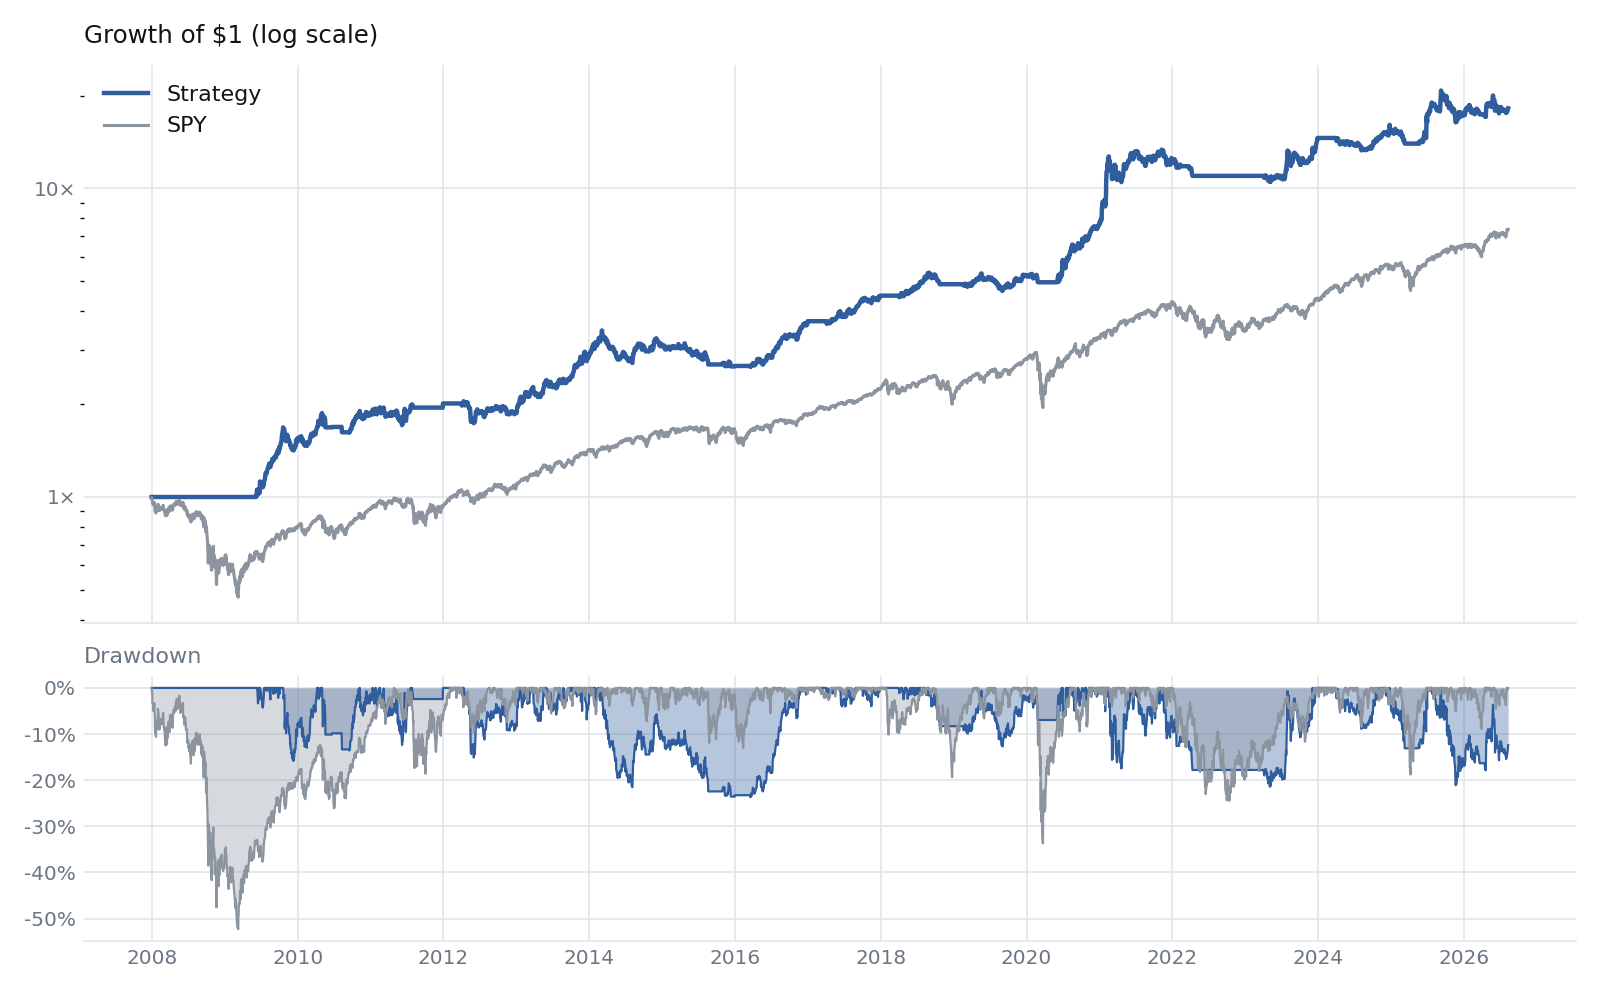
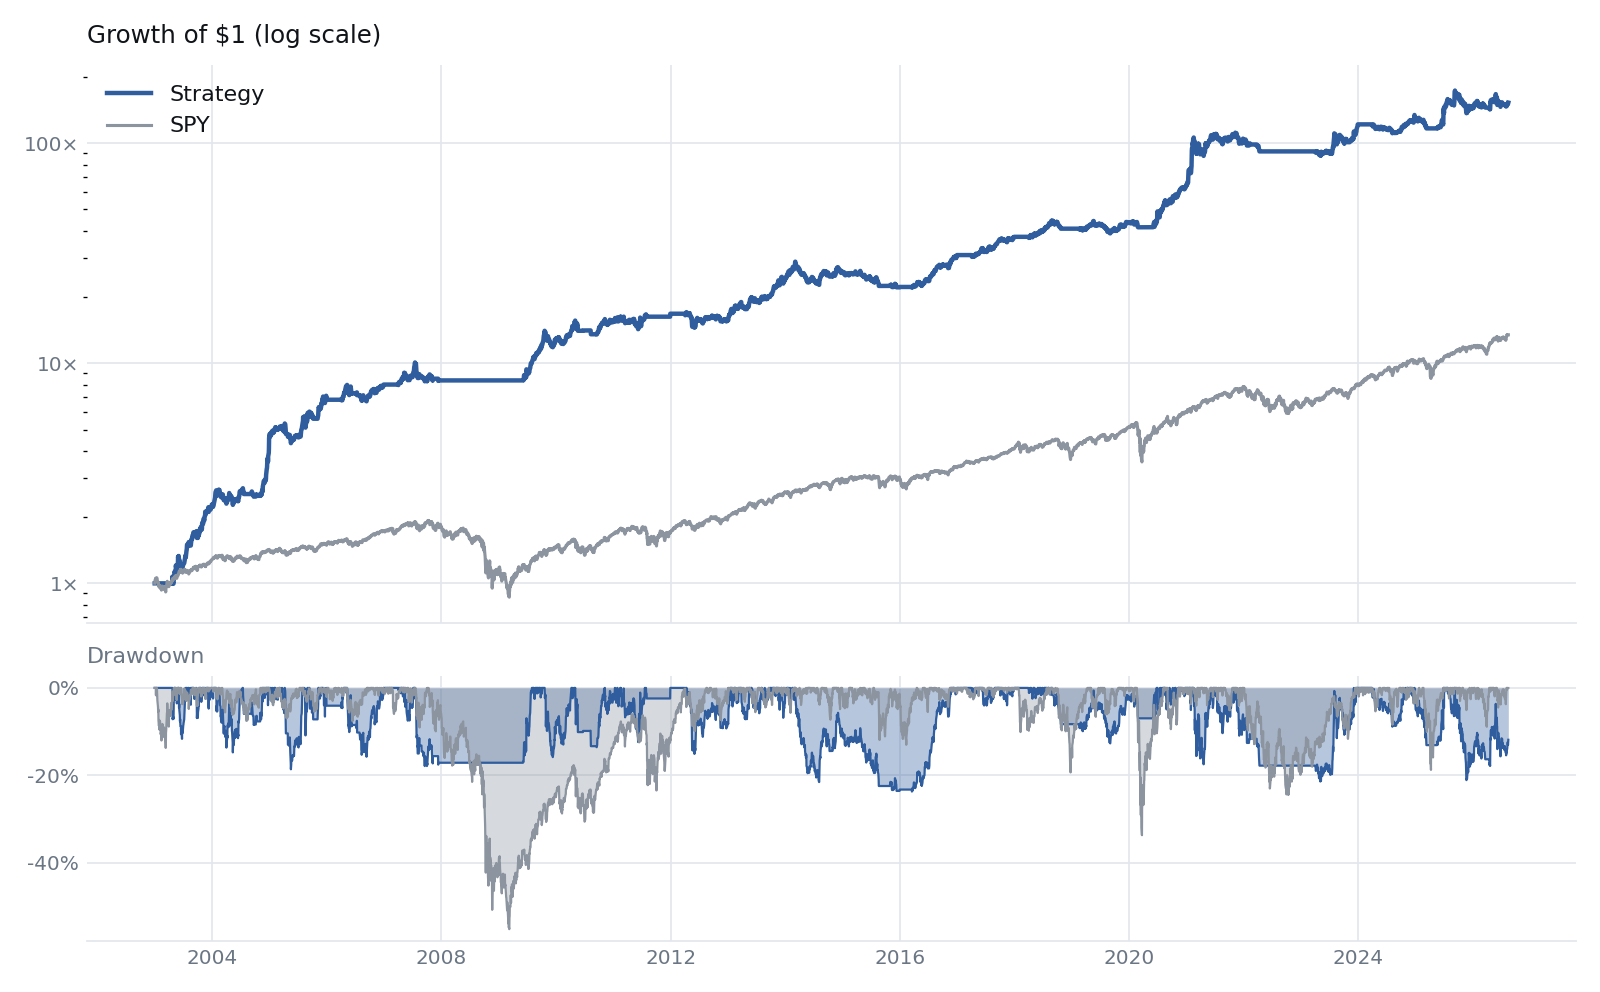
docs(readme): 성과를 학습 5년(24폴드) 기준으로 다시 뽑는다
측정 프로토콜이 바뀌었으므로 표도 따라간다 — 검증 구간 18.6년 → 23.6년,
시도 57 → 72회, DSR 1.000.

표제가 CAGR 16.90% → 23.78% 로 커지는데, **그 사실을 표 바로 아래에 함께
둔다.** 각주로 밀어두면 읽는 사람은 큰 숫자만 가져간다. 단서의 내용은:
2007-12 이후만 잘라 보면 16.92% / Sharpe 0.758 로 이전 결과와 사실상 같고,
개선분 전부가 새로 들어온 2003~2007(그 구간만 CAGR 53%, 소형주 대세 상승기)
에서 나왔다는 것.

이 실행의 소득은 큰 숫자가 아니라 **겹치는 구간이 그대로였다**는 쪽이다.
학습 표본을 절반으로 줄여도 세 자리에서 같다는 것은 과최적화가 아니라는
증거이며, 전략이 좋아졌다는 뜻은 아니다.

`--note` 옵션을 추가했다. 구간을 늘려 숫자가 커질 때 그 맥락을 표와 같은
자리에 두기 위한 것이고, 언어별로 다르게 넣는다.

diff --git a/scripts/update_readme_performance.py b/scripts/update_readme_performance.py
@@ -190,6 +190,7 @@ def build_block(
     label: str,
     trials: int | None = None,
     lang: str = "en",
+    note: str | None = None,
 ) -> str:
     s = STRINGS[lang]
     m = metrics(oos)
@@ -228,9 +229,12 @@ def build_block(
         *rows,
         "",
         s["footer"].format(mult=equity.iloc[-1]),
-        "",
-        END,
     ]
+    # 구간을 늘려 표제 숫자가 커졌다면 그 사실을 표 옆에 함께 둔다. 각주로
+    # 밀어두면 읽는 사람은 큰 숫자만 가져간다.
+    if note:
+        lines += ["", note]
+    lines += ["", END]
     return "\n".join(lines)
 
 
@@ -254,6 +258,12 @@ def main(argv: list[str] | None = None) -> int:
     ap.add_argument("--benchmark", default="SPY")
     ap.add_argument("--label", default=None, help="기본값은 언어별 문구")
     ap.add_argument("--trials", type=int, default=None, help="DSR 정산에 쓸 총 시도 횟수")
+    ap.add_argument(
+        "--note",
+        action="append",
+        default=None,
+        help="표 아래에 붙일 단서. `lang:문장` 형식 (예: ko:2003~2007 은 ...)",
+    )
     ap.add_argument(
         "--readme",
         action="append",
@@ -280,7 +290,10 @@ def main(argv: list[str] | None = None) -> int:
         if not full.exists():
             print(f"건너뜀 (없음): {full}")
             continue
-        block = build_block(oos, bench, args.label or default_label[lang], args.trials, lang)
+        notes = dict(n.split(":", 1) for n in (args.note or []))
+        block = build_block(
+            oos, bench, args.label or default_label[lang], args.trials, lang, notes.get(lang)
+        )
         print(("갱신: " if splice(full, block) else "표식 없음/변화 없음: ") + str(full))
     return 0
 

diff --git a/README.md b/README.md
@@ -43,7 +43,7 @@ Quant backtests fail in a small number of well-known ways. Each one is blocked s
 
 <!-- PERFORMANCE:START -->
 
-*Adopted strategy · walk-forward out-of-sample · 2007-12 – 2026-08 (18.6y)*
+*Adopted strategy · walk-forward out-of-sample · 2002-12 – 2026-08 (23.6y)*
 
 <picture>
   <source media="(prefers-color-scheme: dark)" srcset="docs/images/performance-dark.png">
@@ -52,14 +52,16 @@ Quant backtests fail in a small number of well-known ways. Each one is blocked s
 
 | Metric | Strategy | SPY (same window) |
 |---|---|---|
-| CAGR | **16.90%** | 11.36% |
-| Max drawdown | **-23.7%** | -52.3% |
-| Volatility | **15.7%** | 19.8% |
-| Sharpe | **0.756** | 0.390 |
-| Calmar | **0.71** | 0.22 |
-| **Deflated Sharpe** (57 trials) | **0.992** ✓ | — |
+| CAGR | **23.78%** | 11.66% |
+| Max drawdown | **-23.7%** | -55.2% |
+| Volatility | **17.0%** | 18.6% |
+| Sharpe | **1.047** | 0.418 |
+| Calmar | **1.00** | 0.21 |
+| **Deflated Sharpe** (72 trials) | **1.000** ✓ | — |
 
-Cumulative 18.2× over the validation window. Holdings are not published — the universe is micro-cap and crowding would move the entry price.
+Cumulative 153.0× over the validation window. Holdings are not published — the universe is micro-cap and crowding would move the entry price.
+
+**Read the headline carefully.** Restricted to the window the previous protocol covered (2007-12 onward), this strategy returns 16.92% CAGR at Sharpe 0.758 — statistically identical to the 10-year-training result (16.90% / 0.756). The entire uplift comes from the newly included 2003–2007, a small-cap bull market that alone ran at 53% CAGR. Halving the training window left the overlapping period unchanged, which is evidence of robustness, not of a better strategy.
 
 <!-- PERFORMANCE:END -->
 

diff --git a/README.ko.md b/README.ko.md
@@ -43,7 +43,7 @@
 
 <!-- PERFORMANCE:START -->
 
-*채택 전략 · walk-forward 검증 구간 · 2007-12 – 2026-08 (18.6년)*
+*채택 전략 · walk-forward 검증 구간 · 2002-12 – 2026-08 (23.6년)*
 
 <picture>
   <source media="(prefers-color-scheme: dark)" srcset="docs/images/performance-dark.png">
@@ -52,14 +52,16 @@
 
 | 지표 | 전략 | SPY (같은 구간) |
 |---|---|---|
-| 연평균 수익률 | **16.90%** | 11.36% |
-| 최대낙폭 | **-23.7%** | -52.3% |
-| 변동성 | **15.7%** | 19.8% |
-| Sharpe | **0.756** | 0.390 |
-| Calmar | **0.71** | 0.22 |
-| **Deflated Sharpe** (시도 57회) | **0.992** ✓ | — |
+| 연평균 수익률 | **23.78%** | 11.66% |
+| 최대낙폭 | **-23.7%** | -55.2% |
+| 변동성 | **17.0%** | 18.6% |
+| Sharpe | **1.047** | 0.418 |
+| Calmar | **1.00** | 0.21 |
+| **Deflated Sharpe** (시도 72회) | **1.000** ✓ | — |
 
-검증 구간 누적 18.2배. **보유 종목은 공개하지 않는다** — 초소형주라 공개 추천이 몰리면 자신의 체결가가 나빠진다.
+검증 구간 누적 153.0배. **보유 종목은 공개하지 않는다** — 초소형주라 공개 추천이 몰리면 자신의 체결가가 나빠진다.
+
+**표제 숫자를 그대로 읽으면 안 된다.** 이전 프로토콜이 덮던 구간(2007-12 이후)만 잘라 보면 CAGR 16.92% · Sharpe 0.758 로, 학습 10년 결과(16.90% / 0.756)와 사실상 같다. 개선분 전부가 새로 들어온 2003~2007 에서 나왔고 그 구간만 떼면 CAGR 53% 다 — 소형주 대세 상승기다. 학습 표본을 절반으로 줄여도 겹치는 구간이 그대로였다는 것이 이 실행의 소득이며, 그것은 전략이 좋아졌다는 뜻이 아니라 **학습 길이에 둔감하다**는 뜻이다.
 
 <!-- PERFORMANCE:END -->
 
